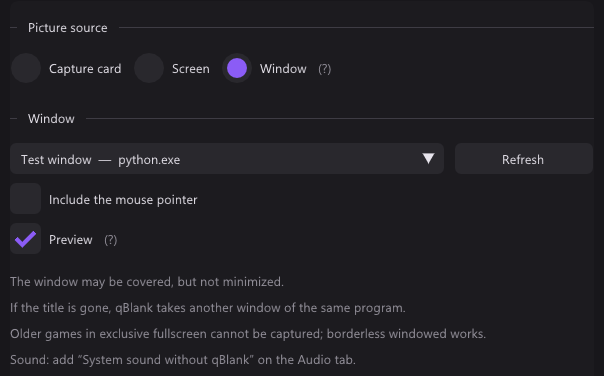
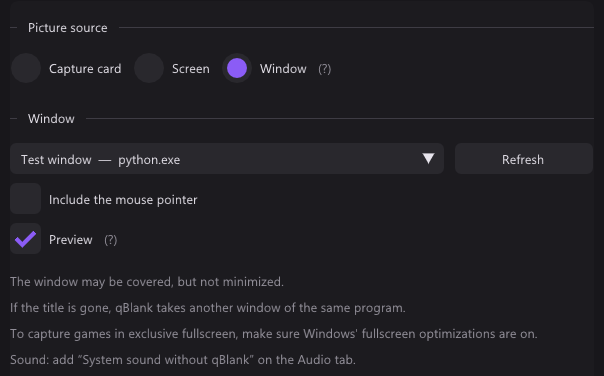
Site, README: exclusive fullscreen works with fullscreen optimizations on
Manual, FAQ, home page and comparison pages in both languages; the
comparison rows now name the case qBlank cannot capture: optimizations
off. New Source tab shots for screen and window.

Changed region(s): [[0.0, 0.8777, 0.894, 0.9069]]

diff --git a/docs/de/vs-obs.html b/docs/de/vs-obs.html
@@ -84,7 +84,7 @@
         <tr><td>Deinterlacing</td><td>Läuft, wenn das Bild als interlaced gemessen wird</td><td>Pro Quelle von Hand gewählt</td></tr>
         <tr><td>Videonorm</td><td>Automatisch gefunden</td><td>Im Treiberdialog der Karte</td></tr>
         <tr><td>Composite-Dot-Crawl</td><td>Filter eingebaut</td><td>&ndash;</td></tr>
-        <tr><td>Ältere Spiele im exklusiven Vollbild</td><td>&ndash;</td><td>Spielaufnahme</td></tr>
+        <tr><td>Exklusives Vollbild, Vollbildoptimierungen aus</td><td>&ndash;</td><td>Spielaufnahme</td></tr>
         <tr><td>Replay-Puffer</td><td>Arbeitsspeicher oder Platte, bis 30&nbsp;Minuten</td><td>Arbeitsspeicher</td></tr>
         <tr><td>Streamen</td><td>&ndash;</td><td>Ja</td></tr>
         <tr><td>Systeme</td><td>Windows 10 und 11, 64 Bit</td><td>Windows, macOS, Linux</td></tr>
@@ -193,7 +193,7 @@
         <tr><th></th><th>qBlank</th><th>OBS Studio</th></tr>
         <tr><td>Bildschirm</td><td>Desktop Duplication</td><td><em>Monitoraufnahme</em>: Automatisch, <em>Veraltet (DXGI)</em> oder <em>Modern (WGC)</em></td></tr>
         <tr><td>Fenster</td><td>Windows.Graphics.Capture</td><td><em>Fensteraufnahme</em>: <em>Veraltet (BitBlt)</em> oder <em>Modern (WGC)</em></td></tr>
-        <tr><td>Ältere Spiele im exklusiven Vollbild</td><td>Nicht möglich, und qBlank sagt es; im randlosen Fenster geht es</td><td><em>Spielaufnahme</em> hängt sich ins Spiel</td></tr>
+        <tr><td>Exklusives Vollbild</td><td>Mit eingeschalteten Vollbildoptimierungen von Windows; ohne sie nicht möglich, und qBlank sagt es</td><td><em>Spielaufnahme</em> hängt sich ins Spiel</td></tr>
         <tr><td>Im Spiel</td><td>Nichts; nur was Windows jedem Programm anbietet</td><td>Die Spielaufnahme lädt einen Hook hinein; ein <em>Anti-Cheat-Kompatibilitäts-Hook</em> ist wählbar</td></tr>
         <tr><td>Fenster weg</td><td>Ein anderes Fenster desselben Programms</td><td><em>Übereinstimmungspriorität</em>: nur Titel, gleicher Typ oder gleiches Programm</td></tr>
         <tr><td>Rahmen</td><td>Immer abgeschnitten</td><td>Haken <em>Client-Bereich</em></td></tr>
@@ -221,7 +221,7 @@
         <li>qBlank: <em>Vorschau</em> aus zeigt eine kleine Anzeige mit Auflösung, Bildrate und Aufnahmezeit und zeichnet seltener. <em>qBlank auf der Aufnahme verbergen</em> ist beim Bildschirm ab Werk an. Es hält qBlank aus jeder Bildschirmaufnahme heraus, auch aus Remote Play und Remotedesktop.</li>
       </ul>
       <figure class="ui">
-        <img src="shots/screen.png" width="528" height="386" loading="lazy" alt="Der Reiter Quelle mit Bildschirm als Bildquelle: der Hauptmonitor gewählt, Mauszeiger, Vorschau und qBlank auf der Aufnahme verbergen eingeschaltet, dazu die Hinweise zum exklusiven Vollbild und zum Ton">
+        <img src="shots/screen.png" width="604" height="364" loading="lazy" alt="Der Reiter Quelle mit Bildschirm als Bildquelle: der Hauptmonitor gewählt, Mauszeiger, Vorschau und qBlank auf der Aufnahme verbergen eingeschaltet, dazu die Hinweise zum exklusiven Vollbild und zum Ton">
         <figcaption>Quelle &rarr; Bildschirm: Monitor, Zeiger, Vorschau, qBlank verbergen.</figcaption>
       </figure>
       <figure class="ui panel">
@@ -307,7 +307,7 @@
         <li>Szenen, geschichtete Quellen, Overlays, Text, Übergänge, Studio-Modus.</li>
         <li>Mehrere Quellen zugleich, etwa eine Kamera über dem Spiel.</li>
         <li>Streamen zu Twitch, YouTube und anderen.</li>
-        <li>Spielaufnahme für Spiele im exklusiven Vollbild.</li>
+        <li>Spielaufnahme, auch für exklusives Vollbild ohne die Vollbildoptimierungen von Windows.</li>
         <li>Ton eines einzelnen Programms.</li>
         <li>Audio- und Videofilter pro Quelle.</li>
         <li>Nach Zeit oder von Hand teilen, mehr Container.</li>

diff --git a/docs/vs-obs.html b/docs/vs-obs.html
@@ -86,7 +86,7 @@
         <tr><td>Deinterlacing</td><td>Runs when the picture is measured as interlaced</td><td>Chosen by hand per source</td></tr>
         <tr><td>Video standard</td><td>Found automatically</td><td>Set in the card driver's dialog</td></tr>
         <tr><td>Composite dot crawl</td><td>Filters built in</td><td>&ndash;</td></tr>
-        <tr><td>Older games in exclusive fullscreen</td><td>&ndash;</td><td>Game Capture</td></tr>
+        <tr><td>Exclusive fullscreen, Windows' optimizations off</td><td>&ndash;</td><td>Game Capture</td></tr>
         <tr><td>Replay buffer</td><td>Memory or disk, up to 30&nbsp;minutes</td><td>Memory</td></tr>
         <tr><td>Streaming</td><td>&ndash;</td><td>Yes</td></tr>
         <tr><td>Systems</td><td>Windows 10 and 11, 64-bit</td><td>Windows, macOS, Linux</td></tr>
@@ -195,7 +195,7 @@
         <tr><th></th><th>qBlank</th><th>OBS Studio</th></tr>
         <tr><td>Screen</td><td>Desktop Duplication</td><td><em>Display Capture</em>: Automatic, <em>Legacy (DXGI)</em> or <em>Modern (WGC)</em></td></tr>
         <tr><td>Window</td><td>Windows.Graphics.Capture</td><td><em>Window Capture</em>: <em>Legacy (BitBlt)</em> or <em>Modern (WGC)</em></td></tr>
-        <tr><td>Older games in exclusive fullscreen</td><td>Not possible, and qBlank says so; borderless windowed works</td><td><em>Game Capture</em> hooks into the game</td></tr>
+        <tr><td>Exclusive fullscreen</td><td>With Windows' fullscreen optimizations on; with them off not possible, and qBlank says so</td><td><em>Game Capture</em> hooks into the game</td></tr>
         <tr><td>Inside the game</td><td>Nothing; only what Windows offers every program</td><td>Game Capture loads a hook into it; an <em>anti-cheat compatibility hook</em> is an option</td></tr>
         <tr><td>Window lost</td><td>Another window of the same program</td><td><em>Window Match Priority</em>: title only, same type, or same program</td></tr>
         <tr><td>Border</td><td>Always cut off</td><td><em>Client Area</em> box</td></tr>
@@ -223,7 +223,7 @@
         <li>qBlank: <em>Preview</em> off shows a small panel with resolution, frame rate and recording time, and redraws less often. <em>Hide qBlank from the capture</em> is on by default for the screen. It keeps qBlank out of every screen capture, Remote Play and Remote Desktop included.</li>
       </ul>
       <figure class="ui">
-        <img src="shots/screen.png" width="528" height="364" loading="lazy" alt="The Source tab with Screen as picture source: the primary monitor picked, mouse pointer, preview and hiding qBlank from the capture switched on, and the notes on exclusive fullscreen and sound">
+        <img src="shots/screen.png" width="604" height="364" loading="lazy" alt="The Source tab with Screen as picture source: the primary monitor picked, mouse pointer, preview and hiding qBlank from the capture switched on, and the notes on exclusive fullscreen and sound">
         <figcaption>Source &rarr; Screen: monitor, pointer, preview, hide qBlank.</figcaption>
       </figure>
       <figure class="ui panel">
@@ -309,7 +309,7 @@
         <li>Scenes, layered sources, overlays, text, transitions, Studio Mode.</li>
         <li>Several sources at once, such as a camera over the game.</li>
         <li>Streaming to Twitch, YouTube and others.</li>
-        <li>Game Capture for games in exclusive fullscreen.</li>
+        <li>Game Capture, also for exclusive fullscreen with Windows' optimizations off.</li>
         <li>Sound from a single program.</li>
         <li>Audio and video filters per source.</li>
         <li>Splitting by time or by hand, more containers.</li>

diff --git a/docs/wiki/screen-and-window.html b/docs/wiki/screen-and-window.html
@@ -71,7 +71,7 @@ instead of a card. Everything after the capture is the same: the passes, the
 <a href="recording.html">recording</a>, the <a href="recording.html#replay">replay</a>, screenshots, the
 camera. What is about a card, the video standard and the card input, is
 hidden. Since 7.1 an HDR monitor comes in <a href="#hdr">HDR</a>.</p>
-      <figure class="ui"><img src="../shots/screen.png" alt="The Source tab with Screen as picture source: monitor, mouse pointer, preview, hide qBlank from the capture" width="528" height="364" loading="lazy"></figure>
+      <figure class="ui"><img src="../shots/screen.png" alt="The Source tab with Screen as picture source: monitor, mouse pointer, preview, hide qBlank from the capture" width="604" height="364" loading="lazy"></figure>
     </section>
 
     <section id="screen">
@@ -163,19 +163,26 @@ want an HDR screen.</p>
 
     <section id="exclusive-fullscreen">
       <h2>Exclusive fullscreen</h2>
-      <p>Older games in exclusive fullscreen own the screen, and Windows shares that
+      <p>Windows' fullscreen optimizations, on by default, compose a game in exclusive
+fullscreen like a borderless window. The game still changes the display mode
+and minimises on Alt+Tab, yet both captures see it: F.E.A.R. 2 came through
+Desktop Duplication and Windows.Graphics.Capture alike.</p>
+      <p>With the optimizations off for a game (<em>Disable fullscreen optimizations</em> in
+the .exe's compatibility settings), it owns the screen, and Windows shares that
 picture with no capture. qBlank cannot get past it, so it says so:</p>
       <ul>
 <li>After <strong>2 s</strong> without a frame it asks <code>SHQueryUserNotificationState</code>. Silence
 alone says little: a desktop at rest sends nothing either.</li>
 <li><code>QUNS_RUNNING_D3D_FULL_SCREEN</code> on the captured screen, or the window's program
 in front: a toast, <em>A game holds the picture in exclusive fullscreen</em>, and the
-advice to switch the game to windowed or borderless.</li>
+advice to turn the optimizations on or switch the game to windowed or
+borderless.</li>
+<li>A game that already sent pictures in that state is composed, and its loading
+screens are silent too: it raises no toast.</li>
 <li>Over once frames flow again. A stray one now and then does not count;
 Desktop Duplication lets the odd one through meanwhile.</li>
 </ul>
-      <p>Tested with F.E.A.R. 2. A hook into the game, as OBS's game capture does, is
-not part of qBlank.</p>
+      <p>A hook into the game, as OBS's game capture does, is not part of qBlank.</p>
     </section>
 
     <section id="platforms">

diff --git a/docs/de/vs-nvidia-app.html b/docs/de/vs-nvidia-app.html
@@ -128,7 +128,7 @@
         <tr><th></th><th>qBlank</th><th>NVIDIA App</th></tr>
         <tr><td>Was aufgenommen wird</td><td>Eine Karte, ein ganzer Monitor oder ein Fenster</td><td>Das erkannte Spiel, oder der Desktop mit <em>Desktop capture</em></td></tr>
         <tr><td>Ein gewähltes Fenster</td><td>Über Windows.Graphics.Capture; ein verdecktes Fenster kommt durch</td><td>&ndash;</td></tr>
-        <tr><td>Exklusives Vollbild</td><td>Nicht bei älteren Spielen; randloses Fenster geht</td><td>Ja</td></tr>
+        <tr><td>Exklusives Vollbild</td><td>Mit eingeschalteten Vollbildoptimierungen von Windows</td><td>Ja</td></tr>
         <tr><td>HDR</td><td>HDR-Desktop und -Fenster in HDR</td><td>Mit HEVC oder AV1</td></tr>
       </table>
       <h3>NVIDIA App</h3>
@@ -150,7 +150,7 @@
         <figcaption>Quelle &rarr; Fenster: das Fenster, Zeiger, Vorschau und was man wissen muss.</figcaption>
       </figure>
       <figure class="ui">
-        <img src="shots/screen.png" width="528" height="386" loading="lazy" alt="Der Reiter Quelle mit Bildschirm als Bildquelle: der Hauptmonitor gewählt, Mauszeiger, Vorschau und qBlank auf der Aufnahme verbergen eingeschaltet, dazu die Hinweise zum exklusiven Vollbild und zum Ton">
+        <img src="shots/screen.png" width="604" height="364" loading="lazy" alt="Der Reiter Quelle mit Bildschirm als Bildquelle: der Hauptmonitor gewählt, Mauszeiger, Vorschau und qBlank auf der Aufnahme verbergen eingeschaltet, dazu die Hinweise zum exklusiven Vollbild und zum Ton">
         <figcaption>Quelle &rarr; Bildschirm: Monitor, Zeiger, Vorschau, qBlank verbergen.</figcaption>
       </figure>
     </section>
@@ -250,7 +250,7 @@
         <li>Highlights: Clips, die sie in unterstützten Spielen selbst speichert.</li>
         <li><em>Photo Mode</em> in unterstützten Spielen.</li>
         <li>Erkennt Spiele selbst.</li>
-        <li>Ältere Spiele im exklusiven Vollbild.</li>
+        <li>Exklusives Vollbild ohne die Vollbildoptimierungen von Windows.</li>
         <li>Ein Leistungs-Overlay, Latenz eingeschlossen.</li>
         <li>Treiber-Updates und Spieleinstellungen.</li>
       </ul>

diff --git a/docs/vs-nvidia-app.html b/docs/vs-nvidia-app.html
@@ -130,7 +130,7 @@
         <tr><th></th><th>qBlank</th><th>NVIDIA App</th></tr>
         <tr><td>What is recorded</td><td>A card, a whole monitor, or one window</td><td>The detected game, or the desktop with <em>Desktop capture</em> on</td></tr>
         <tr><td>One chosen window</td><td>Through Windows.Graphics.Capture; a covered window comes through</td><td>&ndash;</td></tr>
-        <tr><td>Exclusive fullscreen</td><td>Not for older games; borderless windowed works</td><td>Yes</td></tr>
+        <tr><td>Exclusive fullscreen</td><td>With Windows' fullscreen optimizations on</td><td>Yes</td></tr>
         <tr><td>HDR</td><td>HDR desktop and window in HDR</td><td>With HEVC or AV1</td></tr>
       </table>
       <h3>NVIDIA App</h3>
@@ -152,7 +152,7 @@
         <figcaption>Source &rarr; Window: the window, pointer, preview, and what to know.</figcaption>
       </figure>
       <figure class="ui">
-        <img src="shots/screen.png" width="528" height="364" loading="lazy" alt="The Source tab with Screen as picture source: the primary monitor picked, mouse pointer, preview and hiding qBlank from the capture switched on, and the notes on exclusive fullscreen and sound">
+        <img src="shots/screen.png" width="604" height="364" loading="lazy" alt="The Source tab with Screen as picture source: the primary monitor picked, mouse pointer, preview and hiding qBlank from the capture switched on, and the notes on exclusive fullscreen and sound">
         <figcaption>Source &rarr; Screen: monitor, pointer, preview, hide qBlank.</figcaption>
       </figure>
     </section>
@@ -252,7 +252,7 @@
         <li>Highlights: clips saved by themselves in supported games.</li>
         <li><em>Photo Mode</em> in supported games.</li>
         <li>Finds games by itself.</li>
-        <li>Older games in exclusive fullscreen.</li>
+        <li>Exclusive fullscreen with Windows' optimizations off.</li>
         <li>A performance overlay, latency included.</li>
         <li>Driver updates and game settings.</li>
       </ul>

diff --git a/docs/de/compare.html b/docs/de/compare.html
@@ -107,7 +107,7 @@
           <tr><td>Capture Card</td><td>Ja</td><td>Ja</td><td>Ja</td><td>Ja</td><td class="no">&ndash;</td><td>Ja</td><td>Nur Elgato-Karten</td><td>Nur AVerMedia-Karten</td></tr>
           <tr><td>Bildschirm</td><td>Ein Monitor</td><td>Ein Monitor</td><td>Ein Bereich oder Monitor</td><td>Ein Bereich</td><td>Der Desktop, ab Werk aus</td><td>Ein Bereich oder Monitor</td><td class="no">&ndash;</td><td>Ein Monitor</td></tr>
           <tr><td>Ein Fenster</td><td>Ja, auch verdeckt</td><td>Ja</td><td>Als Bereich</td><td>Ja</td><td class="no">&ndash;</td><td>Das aktive</td><td class="no">&ndash;</td><td>Ja</td></tr>
-          <tr><td>Ältere Spiele im exklusiven Vollbild</td><td class="no">&ndash;</td><td>Spielaufnahme</td><td class="no">&ndash;</td><td>Spielaufnahme</td><td>Ja</td><td class="no">&ndash;</td><td class="no">&ndash;</td><td>Nicht angegeben</td></tr>
+          <tr><td>Exklusives Vollbild, Vollbildoptimierungen aus</td><td class="no">&ndash;</td><td>Spielaufnahme</td><td class="no">&ndash;</td><td>Spielaufnahme</td><td>Ja</td><td class="no">&ndash;</td><td class="no">&ndash;</td><td>Nicht angegeben</td></tr>
           <tr class="grp"><th>Spielen über die Karte</th><th></th><th></th><th></th><th></th><th></th><th></th><th></th><th></th></tr>
           <tr><td>Anzeige</td><td>Eigener Renderer, D3D 11 oder Vulkan</td><td>Vorschau, Projektoren</td><td>Overlay oder EVR</td><td>Ein Renderer nach Wahl</td><td class="no">&ndash;</td><td>Overlay oder Vorschau</td><td>Vorschau und Vollbild</td><td>Vorschau, Vollbild, Vorschaufenster</td></tr>
           <tr><td>Format der Karte</td><td>An die Videonorm angepasst</td><td>Standard, oder von Hand</td><td>Aus einer Liste, oder von Hand</td><td>Aus einer Liste, oder <em>Default</em></td><td class="no">&ndash;</td><td>Treiberdialog, oder ein eigenes</td><td>EDID und Farbbereich</td><td>Auflösung, Rate und Format</td></tr>

diff --git a/docs/de/vs-amarectv.html b/docs/de/vs-amarectv.html
@@ -274,7 +274,7 @@
         <tr><td>Spiele und Videos im Fenster</td><td>Ja</td><td>Nicht mit GDI: DirectX-Inhalt bleibt draußen</td></tr>
         <tr><td>Verdecktes Fenster</td><td>Kommt durch</td><td>Bereich: was davor liegt, wird aufgenommen; GDI: kommt durch</td></tr>
         <tr><td>Fenster verschoben oder vergrößert</td><td>Gefolgt, eine neue Größe nach einem Moment</td><td>Position gefolgt; eine neue Größe erst ab der nächsten Aufnahme</td></tr>
-        <tr><td>Exklusives Vollbild</td><td>Nicht bei älteren Spielen; randloses Fenster geht</td><td>Nicht möglich</td></tr>
+        <tr><td>Exklusives Vollbild</td><td>Mit eingeschalteten Vollbildoptimierungen von Windows</td><td>Nicht möglich</td></tr>
         <tr><td>Bildrate</td><td>Jedes neue Bild, oder gedeckelt</td><td>Aus einer Liste, oder die Rate des Monitors</td></tr>
         <tr><td>Mauszeiger</td><td>An oder aus</td><td>An oder aus</td></tr>
         <tr><td>HDR-Desktop</td><td>In HDR</td><td>&ndash;</td></tr>
@@ -307,7 +307,7 @@
         <figcaption>Quelle &rarr; Fenster: das Fenster, Zeiger, Vorschau und was man wissen muss.</figcaption>
       </figure>
       <figure class="ui">
-        <img src="shots/screen.png" width="528" height="386" loading="lazy" alt="Der Reiter Quelle mit Bildschirm als Bildquelle: der Hauptmonitor gewählt, Mauszeiger, Vorschau und qBlank auf der Aufnahme verbergen eingeschaltet, dazu die Hinweise zum exklusiven Vollbild und zum Ton">
+        <img src="shots/screen.png" width="604" height="364" loading="lazy" alt="Der Reiter Quelle mit Bildschirm als Bildquelle: der Hauptmonitor gewählt, Mauszeiger, Vorschau und qBlank auf der Aufnahme verbergen eingeschaltet, dazu die Hinweise zum exklusiven Vollbild und zum Ton">
         <figcaption>Quelle &rarr; Bildschirm: Monitor, Zeiger, Vorschau, qBlank verbergen.</figcaption>
       </figure>
       <figure class="ui panel">

diff --git a/docs/de/manual.html b/docs/de/manual.html
@@ -102,11 +102,11 @@
         <li><strong>HDR:</strong> Zeigt Windows den Monitor in HDR, kommen Bildschirm und Fenster in HDR. Ein HDR-Bildschirm zeigt sie, wie sie sind; auf einem normalen bleibt das Weiß des Desktops weiß, Helleres wird abgeschnitten. Der Reiter <strong>HDR</strong> zeigt das Weiß des Desktops.</li>
         <li><em>Mauszeiger mit aufnehmen</em> nimmt den Zeiger mit. <em>Vorschau</em> aus zeigt nur Auflösung, Bildrate und Aufnahmezeit und zeichnet seltener.</li>
         <li><em>qBlank auf der Aufnahme verbergen</em>, von Haus aus an, hält qBlank aus jeder Bildschirmaufnahme heraus, auch aus Remote Play und Remotedesktop. Aus ist es dort zu sehen.</li>
-        <li>Ältere Spiele im exklusiven Vollbild lassen sich nicht aufnehmen, und qBlank sagt es; im randlosen Fenster geht es.</li>
+        <li>Für Spiele im exklusiven Vollbild müssen die Vollbildoptimierungen von Windows an sein. Sind sie aus, bleibt das Bild weg, und qBlank sagt es.</li>
         <li>Ton: unter <strong>Ton &rarr; Tonquellen der Aufnahme</strong> <em>Systemton ohne qBlank</em> hinzufügen.</li>
       </ul>
       <figure class="ui">
-        <img src="shots/screen.png" width="528" height="386" loading="lazy" alt="Der Reiter Quelle mit Bildschirm als Bildquelle: der Hauptmonitor gewählt, Mauszeiger, Vorschau und qBlank auf der Aufnahme verbergen eingeschaltet, dazu die Hinweise zum exklusiven Vollbild und zum Ton">
+        <img src="shots/screen.png" width="604" height="364" loading="lazy" alt="Der Reiter Quelle mit Bildschirm als Bildquelle: der Hauptmonitor gewählt, Mauszeiger, Vorschau und qBlank auf der Aufnahme verbergen eingeschaltet, dazu die Hinweise zum exklusiven Vollbild und zum Ton">
         <figcaption>Einstellungen &rarr; Quelle &rarr; Bildschirm: Monitor, Zeiger, Vorschau, qBlank verbergen.</figcaption>
       </figure>
       <figure class="ui panel">

diff --git a/docs/compare.html b/docs/compare.html
@@ -109,7 +109,7 @@
           <tr><td>Capture card</td><td>Yes</td><td>Yes</td><td>Yes</td><td>Yes</td><td class="no">&ndash;</td><td>Yes</td><td>Elgato cards only</td><td>AVerMedia cards only</td></tr>
           <tr><td>Screen</td><td>A monitor</td><td>A monitor</td><td>A region or monitor</td><td>An area</td><td>The desktop, off by default</td><td>A region or monitor</td><td class="no">&ndash;</td><td>A monitor</td></tr>
           <tr><td>One window</td><td>Yes, even covered</td><td>Yes</td><td>As a region</td><td>Yes</td><td class="no">&ndash;</td><td>The active one</td><td class="no">&ndash;</td><td>Yes</td></tr>
-          <tr><td>Older games in exclusive fullscreen</td><td class="no">&ndash;</td><td>Game Capture</td><td class="no">&ndash;</td><td>Game capture</td><td>Yes</td><td class="no">&ndash;</td><td class="no">&ndash;</td><td>Not stated</td></tr>
+          <tr><td>Exclusive fullscreen, Windows' optimizations off</td><td class="no">&ndash;</td><td>Game Capture</td><td class="no">&ndash;</td><td>Game capture</td><td>Yes</td><td class="no">&ndash;</td><td class="no">&ndash;</td><td>Not stated</td></tr>
           <tr class="grp"><th>Playing on a card</th><th></th><th></th><th></th><th></th><th></th><th></th><th></th><th></th></tr>
           <tr><td>Display</td><td>Own renderer, D3D 11 or Vulkan</td><td>Preview, projectors</td><td>Overlay or EVR</td><td>A renderer of choice</td><td class="no">&ndash;</td><td>Overlay or preview</td><td>Preview and full screen</td><td>Preview, full screen, preview window</td></tr>
           <tr><td>Card format</td><td>Fitted to the video standard</td><td>Default, or by hand</td><td>From a list, or by hand</td><td>From a list, or <em>Default</em></td><td class="no">&ndash;</td><td>Driver dialog, or custom</td><td>EDID and colour range</td><td>Resolution, rate and format</td></tr>

diff --git a/docs/manual.html b/docs/manual.html
@@ -104,11 +104,11 @@
         <li><strong>HDR:</strong> on a monitor Windows runs in HDR, screen and window come in HDR. An HDR screen shows them as they are; on an ordinary one the desktop's white stays white and brighter parts clip. The <strong>HDR</strong> tab shows the desktop's white.</li>
         <li><em>Include the mouse pointer</em> adds the pointer. <em>Preview</em> off shows only resolution, frame rate and recording time, and redraws less often.</li>
         <li><em>Hide qBlank from the capture</em>, on by default, keeps qBlank out of every screen capture, Remote Play and Remote Desktop included. Off, they can see it.</li>
-        <li>Older games in exclusive fullscreen cannot be captured, and qBlank says so; borderless windowed works.</li>
+        <li>To capture games in exclusive fullscreen, make sure Windows' fullscreen optimizations are on. With them off, the picture stays away, and qBlank says so.</li>
         <li>Sound: add <em>System sound without qBlank</em> under <strong>Audio &rarr; Recording sources</strong>.</li>
       </ul>
       <figure class="ui">
-        <img src="shots/screen.png" width="528" height="364" loading="lazy" alt="The Source tab with Screen as picture source: the primary monitor picked, mouse pointer, preview and hiding qBlank from the capture switched on, and the notes on exclusive fullscreen and sound">
+        <img src="shots/screen.png" width="604" height="364" loading="lazy" alt="The Source tab with Screen as picture source: the primary monitor picked, mouse pointer, preview and hiding qBlank from the capture switched on, and the notes on exclusive fullscreen and sound">
         <figcaption>Settings &rarr; Source &rarr; Screen: monitor, pointer, preview, hide qBlank.</figcaption>
       </figure>
       <figure class="ui panel">

diff --git a/docs/vs-amarectv.html b/docs/vs-amarectv.html
@@ -276,7 +276,7 @@
         <tr><td>Games and video in a window</td><td>Yes</td><td>Not with GDI: DirectX content stays out</td></tr>
         <tr><td>Covered window</td><td>Comes through</td><td>Region: what covers it is recorded; GDI: comes through</td></tr>
         <tr><td>Window moves or resizes</td><td>Followed, a new size after a moment</td><td>Position followed; a new size only from the next recording</td></tr>
-        <tr><td>Exclusive fullscreen</td><td>Not for older games; borderless windowed works</td><td>Not possible</td></tr>
+        <tr><td>Exclusive fullscreen</td><td>With Windows' fullscreen optimizations on</td><td>Not possible</td></tr>
         <tr><td>Frame rate</td><td>Every new picture, or capped</td><td>From a list, or the monitor's rate</td></tr>
         <tr><td>Mouse pointer</td><td>On or off</td><td>On or off</td></tr>
         <tr><td>HDR desktop</td><td>In HDR</td><td>&ndash;</td></tr>
@@ -309,7 +309,7 @@
         <figcaption>Source &rarr; Window: the window, pointer, preview, and what to know.</figcaption>
       </figure>
       <figure class="ui">
-        <img src="shots/screen.png" width="528" height="364" loading="lazy" alt="The Source tab with Screen as picture source: the primary monitor picked, mouse pointer, preview and hiding qBlank from the capture switched on, and the notes on exclusive fullscreen and sound">
+        <img src="shots/screen.png" width="604" height="364" loading="lazy" alt="The Source tab with Screen as picture source: the primary monitor picked, mouse pointer, preview and hiding qBlank from the capture switched on, and the notes on exclusive fullscreen and sound">
         <figcaption>Source &rarr; Screen: monitor, pointer, preview, hide qBlank.</figcaption>
       </figure>
       <figure class="ui panel">

diff --git a/docs/de/index.html b/docs/de/index.html
@@ -124,7 +124,7 @@
     <h2><span class="num">02</span>Dein Bildschirm, oder ein Fenster</h2>
     <p class="lead">Auch ohne Karte: qBlank nimmt einen Monitor oder das Fenster eines einzelnen Programms auf, PC-Spiele eingeschlossen, mit derselben Aufnahme, demselben Replay und denselben Screenshots wie bei einer Konsole.</p>
     <div class="grid">
-      <div class="card"><h3>Ein ganzer Monitor</h3><p>Über Desktop Duplication, in seiner eigenen Auflösung und bis zu seiner Bildwiederholrate, kopiert auf der GPU. Ältere Spiele im exklusiven Vollbild behalten ihr Bild für sich; qBlank sagt es, und im randlosen Fenster geht es.</p></div>
+      <div class="card"><h3>Ein ganzer Monitor</h3><p>Über Desktop Duplication, in seiner eigenen Auflösung und bis zu seiner Bildwiederholrate, kopiert auf der GPU. Auch Spiele im exklusiven Vollbild, solange die Vollbildoptimierungen von Windows an sind; sind sie aus, sagt qBlank es.</p></div>
       <div class="card"><h3>Oder ein Fenster</h3><p>Ein Programm über Windows.Graphics.Capture. Von anderen Fenstern verdeckt kommt es weiter durch, minimiert nicht; geschlossen und wieder geöffnet, wird es wiedergefunden.</p></div>
       <div class="card"><h3>Während das Spiel die Tastatur hat</h3><p>Aufnahme, <strong>Umschalt+F9</strong> fürs Replay, ein Screenshot: Jede Taste kann systemweit gelten, qBlank braucht dafür keinen Fokus.</p></div>
       <div class="card"><h3>Raus aus dem eigenen Bild</h3><p>qBlank und seine Einstellungen halten sich aus der Aufnahme heraus, so zeigt eine Aufnahme ihres Bildschirms kein Bild im Bild. Abgeschaltet sehen Remote Play und Remotedesktop qBlank wieder.</p></div>
